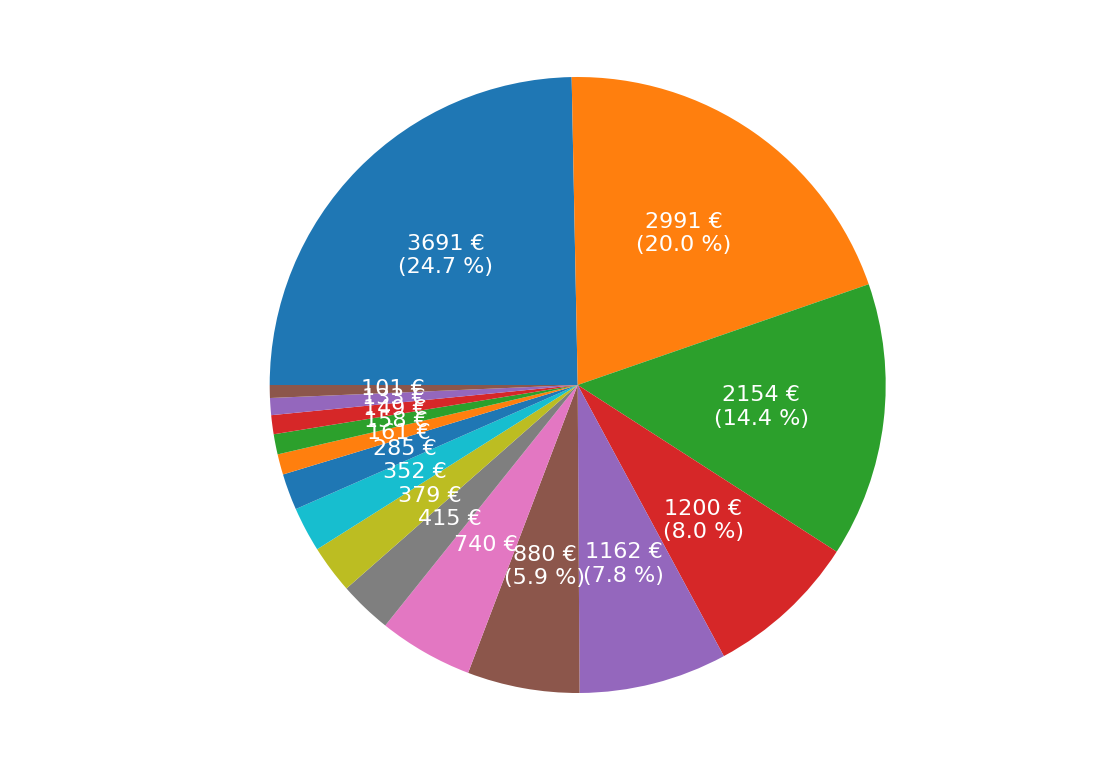
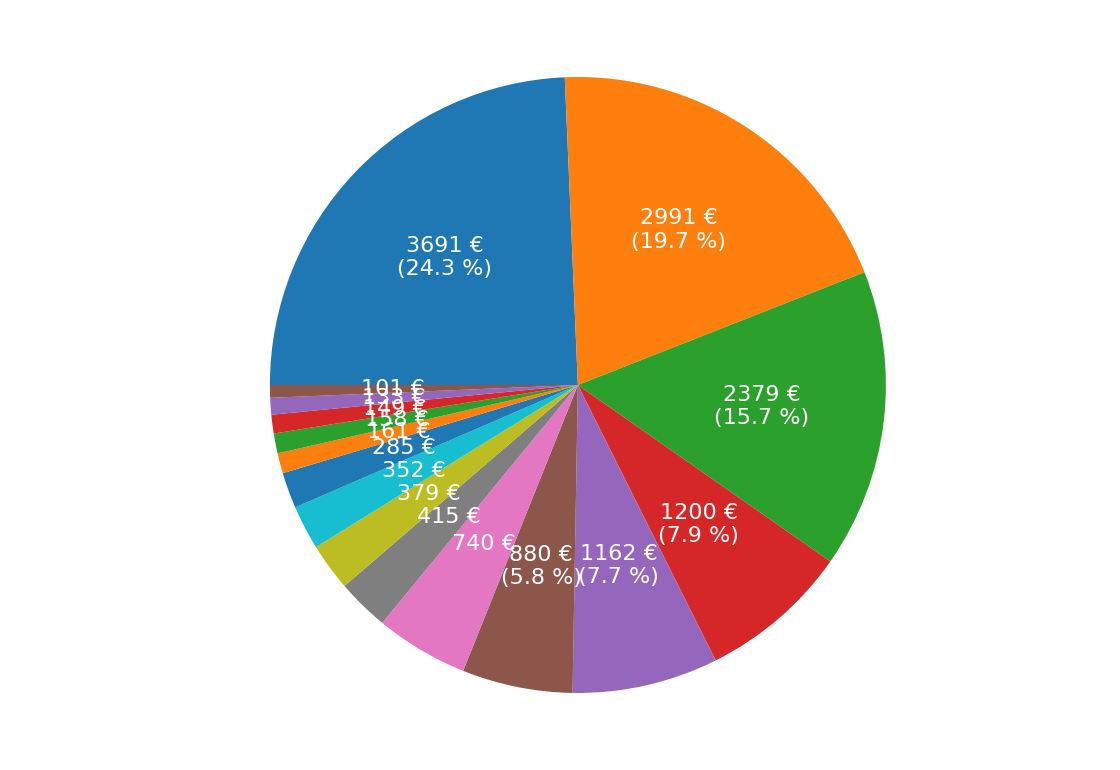
Update 07/05

diff --git a/page_total.html b/page_total.html
@@ -876,13 +876,13 @@
     </tr>
     <tr>
       <td>17/11/2022</td>
-      <td>Payement Aluco</td>
+      <td>Payement Sajou</td>
       <td><a href="subpage_23.html">Weekend Q1</a></td>
       <td style="color:#34FF27"">20.00 €</td>
     </tr>
     <tr>
       <td>17/11/2022</td>
-      <td>Payement Sajou</td>
+      <td>Payement Aluco</td>
       <td><a href="subpage_23.html">Weekend Q1</a></td>
       <td style="color:#34FF27"">20.00 €</td>
     </tr>
@@ -1362,15 +1362,15 @@
     </tr>
     <tr>
       <td>01/03/2023</td>
-      <td>Frais Mars</td>
-      <td><a href="subpage_13.html">Frais bancaire</a></td>
-      <td style="color:#FA413B"">-4.50 €</td>
-    </tr>
-    <tr>
-      <td>01/03/2023</td>
       <td>Payement Hokkaido</td>
       <td><a href="subpage_24.html">Weekend Q2</a></td>
       <td style="color:#34FF27"">25.00 €</td>
+    </tr>
+    <tr>
+      <td>01/03/2023</td>
+      <td>Frais Mars</td>
+      <td><a href="subpage_13.html">Frais bancaire</a></td>
+      <td style="color:#FA413B"">-4.50 €</td>
     </tr>
     <tr>
       <td>02/03/2023</td>
@@ -1458,9 +1458,9 @@
     </tr>
     <tr>
       <td>10/03/2023</td>
-      <td>Vidanges</td>
+      <td>Courses</td>
       <td><a href="subpage_24.html">Weekend Q2</a></td>
-      <td style="color:#34FF27"">36.00 €</td>
+      <td style="color:#FA413B"">-90.06 €</td>
     </tr>
     <tr>
       <td>10/03/2023</td>
@@ -1482,9 +1482,9 @@
     </tr>
     <tr>
       <td>10/03/2023</td>
-      <td>Courses</td>
+      <td>Vidanges</td>
       <td><a href="subpage_24.html">Weekend Q2</a></td>
-      <td style="color:#FA413B"">-90.06 €</td>
+      <td style="color:#34FF27"">36.00 €</td>
     </tr>
     <tr>
       <td>10/03/2023</td>
@@ -1632,9 +1632,9 @@
     </tr>
     <tr>
       <td>30/03/2023</td>
-      <td>Courses</td>
-      <td><a href="subpage_2.html">Bar Pi 01/04</a></td>
-      <td style="color:#FA413B"">-15.00 €</td>
+      <td>Remboursement Wipsy</td>
+      <td><a href="subpage_7.html">Camp Avion</a></td>
+      <td style="color:#34FF27"">35.00 €</td>
     </tr>
     <tr>
       <td>30/03/2023</td>
@@ -1644,9 +1644,9 @@
     </tr>
     <tr>
       <td>30/03/2023</td>
-      <td>Remboursement Wipsy</td>
-      <td><a href="subpage_7.html">Camp Avion</a></td>
-      <td style="color:#34FF27"">35.00 €</td>
+      <td>Courses</td>
+      <td><a href="subpage_2.html">Bar Pi 01/04</a></td>
+      <td style="color:#FA413B"">-15.00 €</td>
     </tr>
     <tr>
       <td>30/03/2023</td>
@@ -1760,13 +1760,13 @@
       <td>22/04/2023</td>
       <td>Frais Desserts</td>
       <td><a href="subpage_14.html">Fête d'unité</a></td>
-      <td style="color:#FA413B"">-18.47 €</td>
+      <td style="color:#FA413B"">-12.09 €</td>
     </tr>
     <tr>
       <td>22/04/2023</td>
       <td>Frais Desserts</td>
       <td><a href="subpage_14.html">Fête d'unité</a></td>
-      <td style="color:#FA413B"">-12.09 €</td>
+      <td style="color:#FA413B"">-18.47 €</td>
     </tr>
     <tr>
       <td>22/04/2023</td>
@@ -1823,10 +1823,16 @@
       <td style="color:#34FF27"">30.00 €</td>
     </tr>
     <tr>
+      <td>06/05/2023</td>
+      <td>Payement Corac</td>
+      <td><a href="subpage_18.html">Payements Camps</a></td>
+      <td style="color:#34FF27"">225.00 €</td>
+    </tr>
+    <tr>
       <td></td>
       <td>Total</td>
       <td></td>
-      <td style="color:#34FF27"">4937.42 €</td>
+      <td style="color:#34FF27"">5162.42 €</td>
     </tr>
   </tbody>
 </table>

diff --git a/page_compte.html b/page_compte.html
@@ -908,7 +908,7 @@
       <td>19/11/2022</td>
       <td>Courses</td>
       <td><a href="subpage_23.html">Weekend Q1</a></td>
-      <td style="color:#FA413B"">-71.78 €</td>
+      <td style="color:#FA413B"">-19.20 €</td>
     </tr>
     <tr>
       <td>19/11/2022</td>
@@ -920,7 +920,7 @@
       <td>19/11/2022</td>
       <td>Courses</td>
       <td><a href="subpage_23.html">Weekend Q1</a></td>
-      <td style="color:#FA413B"">-19.20 €</td>
+      <td style="color:#FA413B"">-71.78 €</td>
     </tr>
     <tr>
       <td>19/11/2022</td>
@@ -1368,9 +1368,9 @@
     </tr>
     <tr>
       <td>09/03/2023</td>
-      <td>Payement Mathias</td>
-      <td><a href="subpage_24.html">Weekend Q2</a></td>
-      <td style="color:#34FF27"">25.00 €</td>
+      <td>Flixbus Paris Algéciras</td>
+      <td><a href="subpage_9.html">Camp Flixbus</a></td>
+      <td style="color:#FA413B"">-3259.71 €</td>
     </tr>
     <tr>
       <td>09/03/2023</td>
@@ -1380,9 +1380,9 @@
     </tr>
     <tr>
       <td>09/03/2023</td>
-      <td>Flixbus Paris Algéciras</td>
-      <td><a href="subpage_9.html">Camp Flixbus</a></td>
-      <td style="color:#FA413B"">-3259.71 €</td>
+      <td>Payement Mathias</td>
+      <td><a href="subpage_24.html">Weekend Q2</a></td>
+      <td style="color:#34FF27"">25.00 €</td>
     </tr>
     <tr>
       <td>09/03/2023</td>
@@ -1739,10 +1739,16 @@
       <td style="color:#34FF27"">30.00 €</td>
     </tr>
     <tr>
+      <td>06/05/2023</td>
+      <td>Payement Corac</td>
+      <td><a href="subpage_18.html">Payements Camps</a></td>
+      <td style="color:#34FF27"">225.00 €</td>
+    </tr>
+    <tr>
       <td></td>
       <td>Total</td>
       <td></td>
-      <td style="color:#34FF27"">4498.29 €</td>
+      <td style="color:#34FF27"">4723.29 €</td>
     </tr>
   </tbody>
 </table>

diff --git a/index.html b/index.html
@@ -9,7 +9,7 @@
 <body>
     <h1>Comptes Pis</h1>
 
-    <button onclick="location.href='page_compte.html'" type="button" class="BasicButton">Compte<br>4498.29 €</button>
+    <button onclick="location.href='page_compte.html'" type="button" class="BasicButton">Compte<br>4723.29 €</button>
     <button onclick="location.href='page_cash.html'" type="button" class="BasicButton">Cash<br>281.63 €</button>
     <button onclick="location.href='page_materiel.html'" type="button" class="BasicButton">Matériel<br>157.50 €</button>
     <br><br><br><br><br>
@@ -18,7 +18,7 @@
         <button onclick="location.href='page_graphs.html'" type="button" class="CategoryButton">Graphes</button>
     </p>
     <br><br><br>
-    <button onclick="location.href='page_total.html'" type="button" class="TotalButton">Total 4937.42 €</button>
+    <button onclick="location.href='page_total.html'" type="button" class="TotalButton">Total 5162.42 €</button>
     
     
 </body>

diff --git a/subpage_18.html b/subpage_18.html
@@ -72,9 +72,14 @@
       <td style="color:#34FF27"">225.00 €</td>
     </tr>
     <tr>
+      <td>06/05/2023</td>
+      <td>Payement Corac</td>
+      <td style="color:#34FF27"">225.00 €</td>
+    </tr>
+    <tr>
       <td></td>
       <td>Recettes Totales</td>
-      <td style="color:#34FF27"">2154.00 €</td>
+      <td style="color:#34FF27"">2379.00 €</td>
     </tr>
     <tr>
       <td></td>
@@ -84,7 +89,7 @@
     <tr>
       <td></td>
       <td>Total</td>
-      <td style="color:#34FF27"">2154.00 €</td>
+      <td style="color:#34FF27"">2379.00 €</td>
     </tr>
   </tbody>
 </table>

diff --git a/page_by_activity.html b/page_by_activity.html
@@ -139,7 +139,7 @@
     <tr>
       <td>03/04/2023</td>
       <td><a href="subpage_18.html">Payements Camps</a></td>
-      <td style="color:#34FF27"">2154.00 €</td>
+      <td style="color:#34FF27"">2379.00 €</td>
     </tr>
     <tr>
       <td>16/04/2023</td>
@@ -149,7 +149,7 @@
     <tr>
       <td></td>
       <td>Total</td>
-      <td style="color:#34FF27"">4937.42 €</td>
+      <td style="color:#34FF27"">5162.42 €</td>
     </tr>
   </tbody>
 </table>
